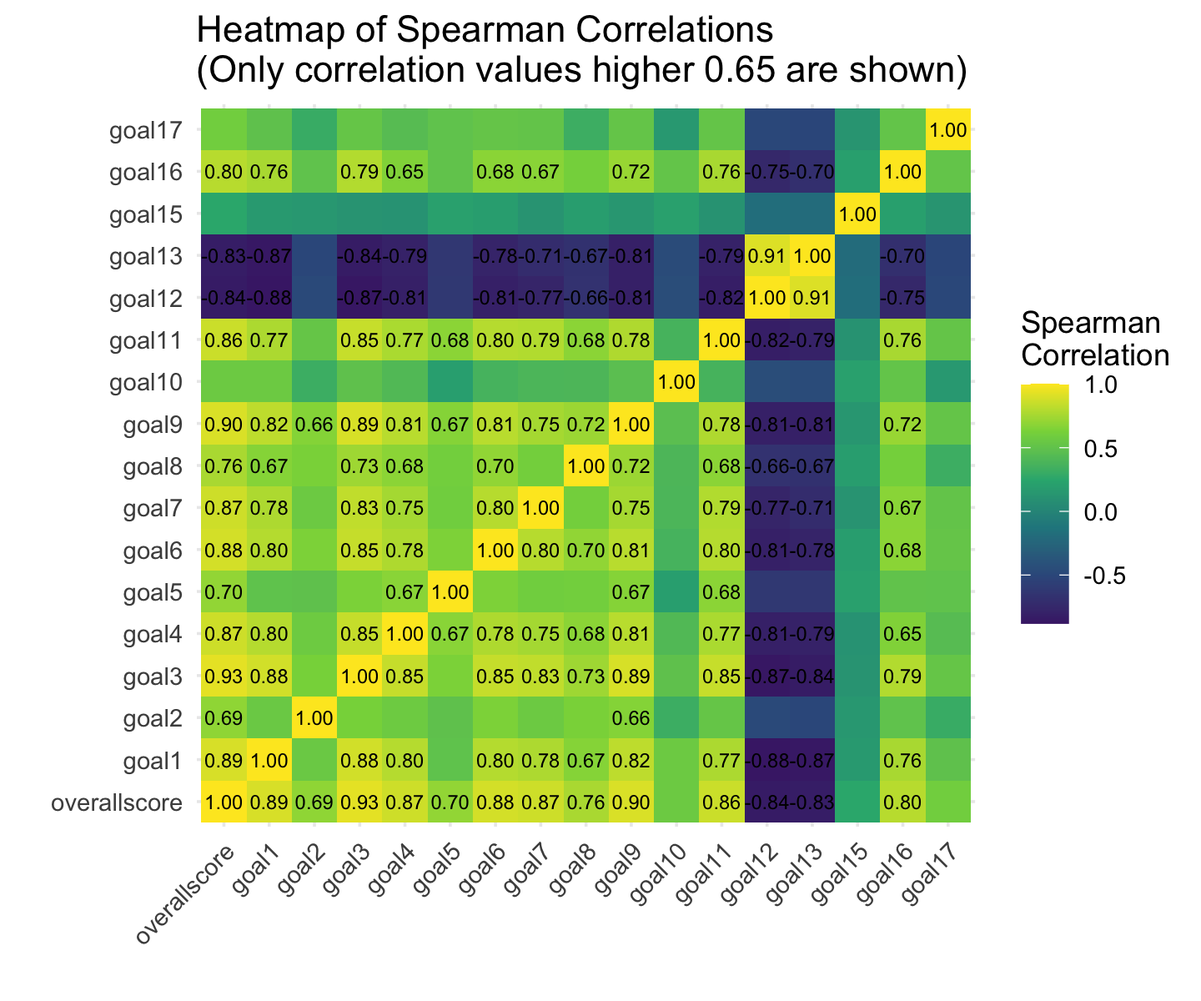
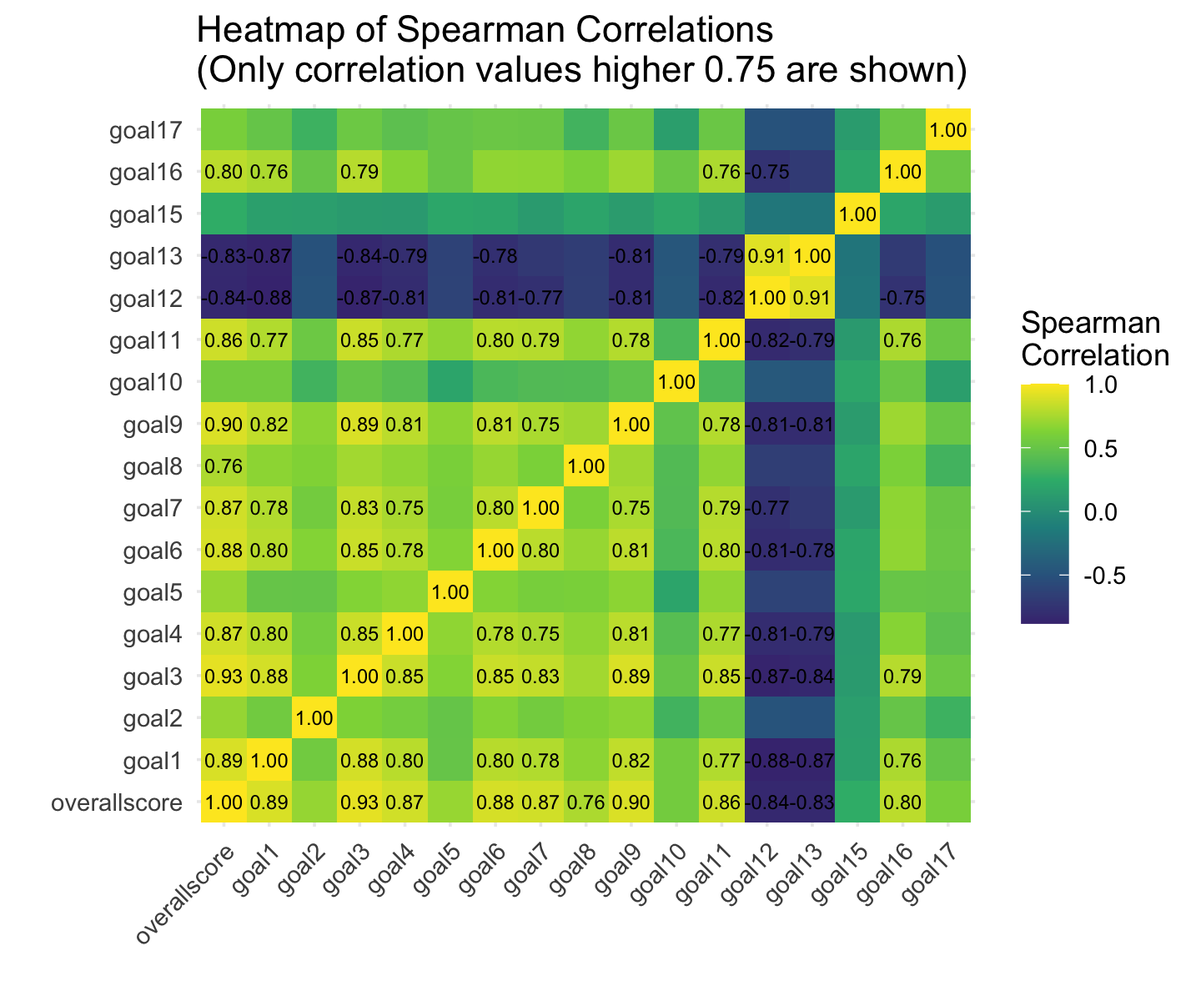
Q4 terminée (prête à la relecture finale)

diff --git a/report/question1.html b/report/question1.html
@@ -552,7 +552,7 @@ pre > code.sourceCode > span > a:first-child::before { text-decoration: underlin
 <section id="analysis-influence-of-the-factors-over-the-sdg" class="level3">
 <h3 class="anchored" data-anchor-id="analysis-influence-of-the-factors-over-the-sdg">Analysis: Influence of the factors over the SDG</h3>
 <p>In order to answer the first question of our work, let’s start by zooming on the correlation matrix heatmap made in our EDA part. Here are the correlations between the SDG and all the other variables except the SDG.</p>
-<div class="cell" data-layout-align="center" data-hash="question1_cache/html/unnamed-chunk-7_982fed00931b7327f23cb1d4cfad81a0">
+<div class="cell" data-layout-align="center" data-hash="question1_cache/html/unnamed-chunk-7_b633495acc107af032b9029f0c6ec2cc">
 <div class="sourceCode cell-code" id="cb7"><pre class="sourceCode r code-with-copy"><code class="sourceCode r"><span id="cb7-1"><a href="#cb7-1" aria-hidden="true" tabindex="-1"></a></span>
 <span id="cb7-2"><a href="#cb7-2" aria-hidden="true" tabindex="-1"></a><span class="do">### Correlation Matrix Heatmap SDG/Other variables </span><span class="al">###</span></span>
 <span id="cb7-3"><a href="#cb7-3" aria-hidden="true" tabindex="-1"></a></span>
@@ -566,13 +566,13 @@ pre > code.sourceCode > span > a:first-child::before { text-decoration: underlin
 <span id="cb7-11"><a href="#cb7-11" aria-hidden="true" tabindex="-1"></a>  }</span>
 <span id="cb7-12"><a href="#cb7-12" aria-hidden="true" tabindex="-1"></a>}</span>
 <span id="cb7-13"><a href="#cb7-13" aria-hidden="true" tabindex="-1"></a></span>
-<span id="cb7-14"><a href="#cb7-14" aria-hidden="true" tabindex="-1"></a>corr_matrix[<span class="fu">which</span>(p_matrix2 <span class="sc">&gt;</span> <span class="fl">0.05</span>)] <span class="ot">&lt;-</span> <span class="cn">NA</span> <span class="co">#only keeping significant pval alpha = 0.05</span></span>
+<span id="cb7-14"><a href="#cb7-14" aria-hidden="true" tabindex="-1"></a>corr_matrix[<span class="fu">which</span>(p_matrix2 <span class="sc">&gt;</span> p_value_threshold)] <span class="ot">&lt;-</span> <span class="cn">NA</span> <span class="co">#only keeping significant pval alpha = 0.05</span></span>
 <span id="cb7-15"><a href="#cb7-15" aria-hidden="true" tabindex="-1"></a></span>
 <span id="cb7-16"><a href="#cb7-16" aria-hidden="true" tabindex="-1"></a>melted_corr_matrix_GVar <span class="ot">&lt;-</span> <span class="fu">melt</span>(corr_matrix[<span class="dv">19</span><span class="sc">:</span><span class="dv">34</span>,<span class="dv">1</span><span class="sc">:</span><span class="dv">18</span>])</span>
 <span id="cb7-17"><a href="#cb7-17" aria-hidden="true" tabindex="-1"></a></span>
 <span id="cb7-18"><a href="#cb7-18" aria-hidden="true" tabindex="-1"></a><span class="fu">ggplot</span>(melted_corr_matrix_GVar, <span class="fu">aes</span>(Var1, Var2, <span class="at">fill =</span> value)) <span class="sc">+</span></span>
 <span id="cb7-19"><a href="#cb7-19" aria-hidden="true" tabindex="-1"></a>  <span class="fu">geom_tile</span>() <span class="sc">+</span></span>
-<span id="cb7-20"><a href="#cb7-20" aria-hidden="true" tabindex="-1"></a>  <span class="fu">geom_text</span>(<span class="fu">aes</span>(<span class="at">label =</span> <span class="fu">ifelse</span>(<span class="sc">!</span><span class="fu">is.na</span>(value) <span class="sc">&amp;</span> <span class="fu">abs</span>(value) <span class="sc">&gt;</span> <span class="fl">0.75</span>, <span class="fu">sprintf</span>(<span class="st">"%.2f"</span>, value), <span class="st">''</span>)),</span>
+<span id="cb7-20"><a href="#cb7-20" aria-hidden="true" tabindex="-1"></a>  <span class="fu">geom_text</span>(<span class="fu">aes</span>(<span class="at">label =</span> <span class="fu">ifelse</span>(<span class="sc">!</span><span class="fu">is.na</span>(value) <span class="sc">&amp;</span> <span class="fu">abs</span>(value) <span class="sc">&gt;</span> threshold_heatmap, <span class="fu">sprintf</span>(<span class="st">"%.2f"</span>, value), <span class="st">''</span>)),</span>
 <span id="cb7-21"><a href="#cb7-21" aria-hidden="true" tabindex="-1"></a>            <span class="at">color =</span> <span class="st">"black"</span>, <span class="at">size =</span> <span class="dv">2</span>) <span class="sc">+</span></span>
 <span id="cb7-22"><a href="#cb7-22" aria-hidden="true" tabindex="-1"></a>  <span class="fu">scale_fill_viridis_c</span>(<span class="at">name =</span> <span class="st">"Spearman</span><span class="sc">\n</span><span class="st">Correlation"</span>,</span>
 <span id="cb7-23"><a href="#cb7-23" aria-hidden="true" tabindex="-1"></a>                       <span class="at">na.value =</span> <span class="st">"white"</span>,</span>
@@ -599,11 +599,11 @@ pre > code.sourceCode > span > a:first-child::before { text-decoration: underlin
 <p>As we can see, our goals 12 &amp; 13 (responsible consumption &amp; production and climate action) are negatively correlated with most of our variables, as is the economic freedom government variable to our SDG. Nevertheless, goals 12 &amp; 13 and ef_government are positively correlated together.</p>
 <!-- ((In that sens, we could understand it as having a higher Human Freedom Index Score would influence more negatively the SDG scores of these two goals, i.e. the more people in a country can access and afford civil justice, the more it impact negatively the score of these two SDG.)) but correlation doesn't implie causality -->
 <p>Now let’s zoom on the correlations between all our variables except the SDG:</p>
-<div class="cell" data-layout-align="center" data-hash="question1_cache/html/unnamed-chunk-8_853e9f3cd2fdab79e28412568af4079f">
+<div class="cell" data-layout-align="center" data-hash="question1_cache/html/unnamed-chunk-8_bb19b79e3ffb3ecb2d821b20481a2200">
 <div class="sourceCode cell-code" id="cb8"><pre class="sourceCode r code-with-copy"><code class="sourceCode r"><span id="cb8-1"><a href="#cb8-1" aria-hidden="true" tabindex="-1"></a>melted_corr_matrix_Var <span class="ot">&lt;-</span> <span class="fu">melt</span>(corr_matrix[<span class="dv">19</span><span class="sc">:</span><span class="dv">34</span>,<span class="dv">19</span><span class="sc">:</span><span class="dv">34</span>])</span>
 <span id="cb8-2"><a href="#cb8-2" aria-hidden="true" tabindex="-1"></a><span class="fu">ggplot</span>(melted_corr_matrix_Var, <span class="fu">aes</span>(Var1, Var2, <span class="at">fill =</span> value)) <span class="sc">+</span></span>
 <span id="cb8-3"><a href="#cb8-3" aria-hidden="true" tabindex="-1"></a>  <span class="fu">geom_tile</span>() <span class="sc">+</span></span>
-<span id="cb8-4"><a href="#cb8-4" aria-hidden="true" tabindex="-1"></a>  <span class="fu">geom_text</span>(<span class="fu">aes</span>(<span class="at">label =</span> <span class="fu">ifelse</span>(<span class="sc">!</span><span class="fu">is.na</span>(value) <span class="sc">&amp;</span> <span class="fu">abs</span>(value) <span class="sc">&gt;</span> <span class="fl">0.75</span>, <span class="fu">sprintf</span>(<span class="st">"%.2f"</span>, value), <span class="st">''</span>)),</span>
+<span id="cb8-4"><a href="#cb8-4" aria-hidden="true" tabindex="-1"></a>  <span class="fu">geom_text</span>(<span class="fu">aes</span>(<span class="at">label =</span> <span class="fu">ifelse</span>(<span class="sc">!</span><span class="fu">is.na</span>(value) <span class="sc">&amp;</span> <span class="fu">abs</span>(value) <span class="sc">&gt;</span> threshold_heatmap, <span class="fu">sprintf</span>(<span class="st">"%.2f"</span>, value), <span class="st">''</span>)),</span>
 <span id="cb8-5"><a href="#cb8-5" aria-hidden="true" tabindex="-1"></a>            <span class="at">color =</span> <span class="st">"black"</span>, <span class="at">size =</span> <span class="fl">1.7</span>) <span class="sc">+</span></span>
 <span id="cb8-6"><a href="#cb8-6" aria-hidden="true" tabindex="-1"></a>  <span class="fu">scale_fill_viridis_c</span>(<span class="at">name =</span> <span class="st">"Spearman</span><span class="sc">\n</span><span class="st">Correlation"</span>,</span>
 <span id="cb8-7"><a href="#cb8-7" aria-hidden="true" tabindex="-1"></a>                       <span class="at">na.value =</span> <span class="st">"white"</span>,</span>
@@ -955,27 +955,24 @@ Goal17\sim \beta_0 &amp;+ unemployment.rate*\beta_1 + MilitaryExpenditurePercent
 <span id="cb16-43"><a href="#cb16-43" aria-hidden="true" tabindex="-1"></a><span class="co"># Combine into a single dataframe</span></span>
 <span id="cb16-44"><a href="#cb16-44" aria-hidden="true" tabindex="-1"></a>df_tidy <span class="ot">&lt;-</span> <span class="fu">do.call</span>(rbind, <span class="fu">lapply</span>(<span class="fu">names</span>(models_tidy), <span class="cf">function</span>(x) <span class="fu">cbind</span>(models_tidy[[x]], <span class="at">Model=</span>x)))</span>
 <span id="cb16-45"><a href="#cb16-45" aria-hidden="true" tabindex="-1"></a></span>
-<span id="cb16-46"><a href="#cb16-46" aria-hidden="true" tabindex="-1"></a><span class="co"># Assuming 'p.value' is the column name for p-values in your dataframe</span></span>
-<span id="cb16-47"><a href="#cb16-47" aria-hidden="true" tabindex="-1"></a>significance_level <span class="ot">&lt;-</span> <span class="fl">0.05</span></span>
-<span id="cb16-48"><a href="#cb16-48" aria-hidden="true" tabindex="-1"></a></span>
-<span id="cb16-49"><a href="#cb16-49" aria-hidden="true" tabindex="-1"></a><span class="co"># Filter for significant p-values</span></span>
-<span id="cb16-50"><a href="#cb16-50" aria-hidden="true" tabindex="-1"></a>df_tidy_significant <span class="ot">&lt;-</span> df_tidy[df_tidy<span class="sc">$</span>p.value <span class="sc">&lt;</span> significance_level, ]</span>
-<span id="cb16-51"><a href="#cb16-51" aria-hidden="true" tabindex="-1"></a><span class="fu">library</span>(RColorBrewer)</span>
-<span id="cb16-52"><a href="#cb16-52" aria-hidden="true" tabindex="-1"></a></span>
-<span id="cb16-53"><a href="#cb16-53" aria-hidden="true" tabindex="-1"></a>myColors <span class="ot">&lt;-</span> <span class="fu">colorRampPalette</span>(<span class="fu">brewer.pal</span>(<span class="dv">11</span>, <span class="st">"Spectral"</span>))(<span class="fu">length</span>(<span class="fu">unique</span>(df_tidy_significant<span class="sc">$</span>term)))</span>
-<span id="cb16-54"><a href="#cb16-54" aria-hidden="true" tabindex="-1"></a><span class="co"># Plot</span></span>
-<span id="cb16-55"><a href="#cb16-55" aria-hidden="true" tabindex="-1"></a><span class="fu">ggplot</span>(df_tidy_significant, <span class="fu">aes</span>(<span class="at">x =</span> Model, <span class="at">y =</span> estimate, <span class="at">color =</span> term)) <span class="sc">+</span></span>
-<span id="cb16-56"><a href="#cb16-56" aria-hidden="true" tabindex="-1"></a>  <span class="fu">geom_point</span>() <span class="sc">+</span></span>
-<span id="cb16-57"><a href="#cb16-57" aria-hidden="true" tabindex="-1"></a>  <span class="fu">geom_errorbar</span>(<span class="fu">aes</span>(<span class="at">ymin =</span> estimate <span class="sc">-</span> std.error, <span class="at">ymax =</span> estimate <span class="sc">+</span> std.error), <span class="at">width =</span> <span class="fl">0.2</span>) <span class="sc">+</span></span>
-<span id="cb16-58"><a href="#cb16-58" aria-hidden="true" tabindex="-1"></a>  <span class="fu">scale_color_manual</span>(<span class="at">values =</span> myColors) <span class="sc">+</span> </span>
-<span id="cb16-59"><a href="#cb16-59" aria-hidden="true" tabindex="-1"></a>  <span class="fu">theme</span>(<span class="at">axis.text.x =</span> <span class="fu">element_text</span>(<span class="at">angle =</span> <span class="dv">45</span>, <span class="at">hjust =</span> <span class="dv">1</span>),</span>
-<span id="cb16-60"><a href="#cb16-60" aria-hidden="true" tabindex="-1"></a>        <span class="at">plot.title =</span> <span class="fu">element_text</span>(<span class="at">hjust =</span> <span class="fl">0.5</span>), <span class="co"># Center the title</span></span>
-<span id="cb16-61"><a href="#cb16-61" aria-hidden="true" tabindex="-1"></a>        <span class="at">plot.title.position =</span> <span class="st">"plot"</span>,</span>
-<span id="cb16-62"><a href="#cb16-62" aria-hidden="true" tabindex="-1"></a>        <span class="at">legend.position =</span> <span class="st">"right"</span>, <span class="co"># You can change the position if needed</span></span>
-<span id="cb16-63"><a href="#cb16-63" aria-hidden="true" tabindex="-1"></a>        <span class="at">legend.text =</span> <span class="fu">element_text</span>(<span class="at">size =</span> <span class="dv">6</span>), <span class="co"># Adjust text size</span></span>
-<span id="cb16-64"><a href="#cb16-64" aria-hidden="true" tabindex="-1"></a>        <span class="at">legend.title =</span> <span class="fu">element_text</span>(<span class="at">size =</span> <span class="dv">7</span>), <span class="co"># Adjust title size</span></span>
-<span id="cb16-65"><a href="#cb16-65" aria-hidden="true" tabindex="-1"></a>        <span class="at">legend.key.size =</span> <span class="fu">unit</span>(<span class="fl">0.4</span>, <span class="st">"cm"</span>)) <span class="sc">+</span>  <span class="co"># Adjust key size) +</span></span>
-<span id="cb16-66"><a href="#cb16-66" aria-hidden="true" tabindex="-1"></a>  <span class="fu">labs</span>(<span class="at">title =</span> <span class="st">"Coefficient Plot of Regression Models"</span>, <span class="at">x =</span> <span class="st">"Models"</span>, <span class="at">y =</span> <span class="st">"Estimates"</span>)</span></code><button title="Copy to Clipboard" class="code-copy-button"><i class="bi"></i></button></pre></div>
+<span id="cb16-46"><a href="#cb16-46" aria-hidden="true" tabindex="-1"></a><span class="co"># Filter for significant p-values</span></span>
+<span id="cb16-47"><a href="#cb16-47" aria-hidden="true" tabindex="-1"></a>df_tidy_significant <span class="ot">&lt;-</span> df_tidy[df_tidy<span class="sc">$</span>p.value <span class="sc">&lt;</span> p_value_threshold, ]</span>
+<span id="cb16-48"><a href="#cb16-48" aria-hidden="true" tabindex="-1"></a><span class="fu">library</span>(RColorBrewer)</span>
+<span id="cb16-49"><a href="#cb16-49" aria-hidden="true" tabindex="-1"></a></span>
+<span id="cb16-50"><a href="#cb16-50" aria-hidden="true" tabindex="-1"></a>myColors <span class="ot">&lt;-</span> <span class="fu">colorRampPalette</span>(<span class="fu">brewer.pal</span>(<span class="dv">11</span>, <span class="st">"Spectral"</span>))(<span class="fu">length</span>(<span class="fu">unique</span>(df_tidy_significant<span class="sc">$</span>term)))</span>
+<span id="cb16-51"><a href="#cb16-51" aria-hidden="true" tabindex="-1"></a><span class="co"># Plot</span></span>
+<span id="cb16-52"><a href="#cb16-52" aria-hidden="true" tabindex="-1"></a><span class="fu">ggplot</span>(df_tidy_significant, <span class="fu">aes</span>(<span class="at">x =</span> Model, <span class="at">y =</span> estimate, <span class="at">color =</span> term)) <span class="sc">+</span></span>
+<span id="cb16-53"><a href="#cb16-53" aria-hidden="true" tabindex="-1"></a>  <span class="fu">geom_point</span>() <span class="sc">+</span></span>
+<span id="cb16-54"><a href="#cb16-54" aria-hidden="true" tabindex="-1"></a>  <span class="fu">geom_errorbar</span>(<span class="fu">aes</span>(<span class="at">ymin =</span> estimate <span class="sc">-</span> std.error, <span class="at">ymax =</span> estimate <span class="sc">+</span> std.error), <span class="at">width =</span> <span class="fl">0.2</span>) <span class="sc">+</span></span>
+<span id="cb16-55"><a href="#cb16-55" aria-hidden="true" tabindex="-1"></a>  <span class="fu">scale_color_manual</span>(<span class="at">values =</span> myColors) <span class="sc">+</span> </span>
+<span id="cb16-56"><a href="#cb16-56" aria-hidden="true" tabindex="-1"></a>  <span class="fu">theme</span>(<span class="at">axis.text.x =</span> <span class="fu">element_text</span>(<span class="at">angle =</span> <span class="dv">45</span>, <span class="at">hjust =</span> <span class="dv">1</span>),</span>
+<span id="cb16-57"><a href="#cb16-57" aria-hidden="true" tabindex="-1"></a>        <span class="at">plot.title =</span> <span class="fu">element_text</span>(<span class="at">hjust =</span> <span class="fl">0.5</span>), <span class="co"># Center the title</span></span>
+<span id="cb16-58"><a href="#cb16-58" aria-hidden="true" tabindex="-1"></a>        <span class="at">plot.title.position =</span> <span class="st">"plot"</span>,</span>
+<span id="cb16-59"><a href="#cb16-59" aria-hidden="true" tabindex="-1"></a>        <span class="at">legend.position =</span> <span class="st">"right"</span>, <span class="co"># You can change the position if needed</span></span>
+<span id="cb16-60"><a href="#cb16-60" aria-hidden="true" tabindex="-1"></a>        <span class="at">legend.text =</span> <span class="fu">element_text</span>(<span class="at">size =</span> <span class="dv">6</span>), <span class="co"># Adjust text size</span></span>
+<span id="cb16-61"><a href="#cb16-61" aria-hidden="true" tabindex="-1"></a>        <span class="at">legend.title =</span> <span class="fu">element_text</span>(<span class="at">size =</span> <span class="dv">7</span>), <span class="co"># Adjust title size</span></span>
+<span id="cb16-62"><a href="#cb16-62" aria-hidden="true" tabindex="-1"></a>        <span class="at">legend.key.size =</span> <span class="fu">unit</span>(<span class="fl">0.4</span>, <span class="st">"cm"</span>)) <span class="sc">+</span>  <span class="co"># Adjust key size) +</span></span>
+<span id="cb16-63"><a href="#cb16-63" aria-hidden="true" tabindex="-1"></a>  <span class="fu">labs</span>(<span class="at">title =</span> <span class="st">"Coefficient Plot of Regression Models"</span>, <span class="at">x =</span> <span class="st">"Models"</span>, <span class="at">y =</span> <span class="st">"Estimates"</span>)</span></code><button title="Copy to Clipboard" class="code-copy-button"><i class="bi"></i></button></pre></div>
 <div class="cell-output-display">
 <div class="quarto-figure quarto-figure-center">
 <figure class="figure">

diff --git a/report/question4.html b/report/question4.html
@@ -86,7 +86,7 @@ pre > code.sourceCode > span > a:first-child::before { text-decoration: underlin
 <p><strong>How are the different SDGs linked? (We want to see if some SDGs are linked in the fact that a high score on one implies a high score on the other, and thus if we can make groups of SDGs that are comparable in that way).</strong></p>
 <section id="eda-general-visualization-of-the-sdgs" class="level3">
 <h3 class="anchored" data-anchor-id="eda-general-visualization-of-the-sdgs">EDA: General visualization of the SDGs</h3>
-<p>To better analyse the relationships between the SDGs, we will first visualize the correlation between the correlation between the SDGs with the help of a heatmap. We chose to set a threshold at |0.65| to concentrate our analysis on the most linked SDGs. We initially intended to use the Pearson correlation method, but our data is, as seen in previous chapter, not normally ditributed. We tryed to normalized our data through logarithmic or square root transformation, but it was not sufficient. For that reason, we chose to use th Spearman correlation. While not being an ideal method, the Spearman correaltion does not require the data to be normally ditributed.</p>
+<p>To better analyse the relationships between the SDGs, we will first visualize the correlation between the correlation between the SDGs with the help of a heatmap. We chose to set a threshold at |0.75| to concentrate our analysis on the most linked SDGs. We initially intended to use the Pearson correlation method, but our data is, as seen in previous chapter, not normally ditributed. We tryed to normalized our data through logarithmic or square root transformation, but it was not sufficient. For that reason, we chose to use th Spearman correlation. While not being an ideal method, the Spearman correaltion does not require the data to be normally ditributed.</p>
 <p>To do that, we select only the colums of interest and compute the correlation matrix using Spearman correlation. We then melt the matrix to be able to plot it. We then plot the heatmap using <code>ggplot2</code>.</p>
 <div class="cell" data-layout-align="center">
 <div class="sourceCode cell-code" id="cb1"><pre class="sourceCode r code-with-copy"><code class="sourceCode r"><span id="cb1-1"><a href="#cb1-1" aria-hidden="true" tabindex="-1"></a><span class="do">#### Heatmap of the correlations ####</span></span>
@@ -129,7 +129,7 @@ pre > code.sourceCode > span > a:first-child::before { text-decoration: underlin
 <span id="cb1-38"><a href="#cb1-38" aria-hidden="true" tabindex="-1"></a>              <span class="at">vjust =</span> <span class="fl">0.5</span>,</span>
 <span id="cb1-39"><a href="#cb1-39" aria-hidden="true" tabindex="-1"></a>              <span class="at">size =</span> <span class="fl">2.5</span>) <span class="sc">+</span></span>
 <span id="cb1-40"><a href="#cb1-40" aria-hidden="true" tabindex="-1"></a>    <span class="fu">scale_fill_viridis_c</span>(<span class="at">name =</span> <span class="st">"Spearman</span><span class="sc">\n</span><span class="st">Correlation"</span>,</span>
-<span id="cb1-41"><a href="#cb1-41" aria-hidden="true" tabindex="-1"></a>                         <span class="at">begin =</span> <span class="fl">0.1</span>) <span class="sc">+</span></span>
+<span id="cb1-41"><a href="#cb1-41" aria-hidden="true" tabindex="-1"></a>                         <span class="at">begin =</span> <span class="fl">0.15</span>) <span class="sc">+</span></span>
 <span id="cb1-42"><a href="#cb1-42" aria-hidden="true" tabindex="-1"></a>    <span class="fu">theme_minimal</span>() <span class="sc">+</span></span>
 <span id="cb1-43"><a href="#cb1-43" aria-hidden="true" tabindex="-1"></a>    <span class="fu">theme</span>(<span class="at">axis.text.x =</span> <span class="fu">element_text</span>(<span class="at">angle =</span> <span class="dv">45</span>,</span>
 <span id="cb1-44"><a href="#cb1-44" aria-hidden="true" tabindex="-1"></a>                                     <span class="at">hjust =</span> <span class="dv">1</span>)) <span class="sc">+</span></span>
@@ -147,7 +147,7 @@ pre > code.sourceCode > span > a:first-child::before { text-decoration: underlin
 </div>
 </div>
 </div>
-<p>The correlation can be read on the graph. The darker the color, the stronger the correlation. If there is not colors, it means that the goals correlation does not exceed our threshold of ±0.65.</p>
+<p>The correlation can be read on the graph. The darker the color, the stronger the correlation. If the correlation value is not shown, it means that the goals correlation does not exceed our threshold of ±0.75.</p>
 <p>It is evident that the Sustainable Development Goals (SDGs) are intricately interconnected. However, certain goals seems to be less interrelated compared to others. We can see that SDG 1 (No Poverty) and SDG 10 (Reduced Inequalities) have a weaker correlation with the rest of the goals. Similarly, Goal 15 (Life on Land) also have a weacker interconnection with the other SDGs. It is also interesting to note that some goals are negatively correlated with others. For instance, based on the Spearman correlation, goal 12 (Responsable Consumption and Production) and goal 13 (Climate Action) are negatively correlated with the others goals. This suggest that when the higher a goal other than goal 12 or 13 is, the lower the goals 12 and 13 are. Given their similar nature, it is not surprising that they are highly correlated with each other.</p>
 </section>
 <section id="analysis-factor-analysis-and-stepwise-regression-applied-to-the-sdgs" class="level3">
@@ -177,15 +177,12 @@ pre > code.sourceCode > span > a:first-child::before { text-decoration: underlin
 <span id="cb2-21"><a href="#cb2-21" aria-hidden="true" tabindex="-1"></a>                             <span class="at">option =</span> <span class="st">"B"</span>,</span>
 <span id="cb2-22"><a href="#cb2-22" aria-hidden="true" tabindex="-1"></a>                             <span class="at">begin =</span> <span class="fl">0.5</span>),</span>
 <span id="cb2-23"><a href="#cb2-23" aria-hidden="true" tabindex="-1"></a>         <span class="at">barcolor =</span> <span class="st">"black"</span>,</span>
-<span id="cb2-24"><a href="#cb2-24" aria-hidden="true" tabindex="-1"></a>         <span class="at">barfill =</span> <span class="fu">viridis</span>(<span class="dv">10</span>,</span>
-<span id="cb2-25"><a href="#cb2-25" aria-hidden="true" tabindex="-1"></a>                           <span class="at">option =</span> <span class="st">"D"</span>,</span>
-<span id="cb2-26"><a href="#cb2-26" aria-hidden="true" tabindex="-1"></a>                           <span class="at">begin =</span> <span class="dv">0</span>,</span>
-<span id="cb2-27"><a href="#cb2-27" aria-hidden="true" tabindex="-1"></a>                           <span class="at">end =</span> <span class="fl">0.8</span>),) <span class="sc">+</span></span>
-<span id="cb2-28"><a href="#cb2-28" aria-hidden="true" tabindex="-1"></a>  <span class="fu">ggtitle</span>(<span class="st">"                                          PCA - Scree plot"</span>) <span class="sc">+</span></span>
-<span id="cb2-29"><a href="#cb2-29" aria-hidden="true" tabindex="-1"></a>  <span class="fu">theme_minimal</span>()</span>
-<span id="cb2-30"><a href="#cb2-30" aria-hidden="true" tabindex="-1"></a></span>
-<span id="cb2-31"><a href="#cb2-31" aria-hidden="true" tabindex="-1"></a><span class="co"># getting the eigenvalues</span></span>
-<span id="cb2-32"><a href="#cb2-32" aria-hidden="true" tabindex="-1"></a>eigenvalues <span class="ot">&lt;-</span> pca_result<span class="sc">$</span>sdev<span class="sc">^</span><span class="dv">2</span></span></code><button title="Copy to Clipboard" class="code-copy-button"><i class="bi"></i></button></pre></div>
+<span id="cb2-24"><a href="#cb2-24" aria-hidden="true" tabindex="-1"></a>         <span class="at">barfill =</span> Fix_color) <span class="sc">+</span></span>
+<span id="cb2-25"><a href="#cb2-25" aria-hidden="true" tabindex="-1"></a>  <span class="fu">ggtitle</span>(<span class="st">"                                          PCA - Scree plot"</span>) <span class="sc">+</span></span>
+<span id="cb2-26"><a href="#cb2-26" aria-hidden="true" tabindex="-1"></a>  <span class="fu">theme_minimal</span>()</span>
+<span id="cb2-27"><a href="#cb2-27" aria-hidden="true" tabindex="-1"></a></span>
+<span id="cb2-28"><a href="#cb2-28" aria-hidden="true" tabindex="-1"></a><span class="co"># getting the eigenvalues</span></span>
+<span id="cb2-29"><a href="#cb2-29" aria-hidden="true" tabindex="-1"></a>eigenvalues <span class="ot">&lt;-</span> pca_result<span class="sc">$</span>sdev<span class="sc">^</span><span class="dv">2</span></span></code><button title="Copy to Clipboard" class="code-copy-button"><i class="bi"></i></button></pre></div>
 <div class="cell-output-display">
 <div class="quarto-figure quarto-figure-center">
 <figure class="figure">
@@ -444,7 +441,8 @@ Overallscore\sim \beta_0 &amp;+ Goal~2*\beta_1 + Goal~3*\beta_2 + Goal~4*\beta_3
 <span id="cb7-21"><a href="#cb7-21" aria-hidden="true" tabindex="-1"></a>              <span class="at">color =</span> <span class="fu">viridis</span>(<span class="dv">1</span>,</span>
 <span id="cb7-22"><a href="#cb7-22" aria-hidden="true" tabindex="-1"></a>                             <span class="at">option =</span> <span class="st">"B"</span>,</span>
 <span id="cb7-23"><a href="#cb7-23" aria-hidden="true" tabindex="-1"></a>                             <span class="at">begin =</span> <span class="fl">0.5</span>)) <span class="sc">+</span></span>
-<span id="cb7-24"><a href="#cb7-24" aria-hidden="true" tabindex="-1"></a>  <span class="fu">theme_minimal</span>()</span></code><button title="Copy to Clipboard" class="code-copy-button"><i class="bi"></i></button></pre></div>
+<span id="cb7-24"><a href="#cb7-24" aria-hidden="true" tabindex="-1"></a>  <span class="fu">theme_minimal</span>() <span class="sc">+</span></span>
+<span id="cb7-25"><a href="#cb7-25" aria-hidden="true" tabindex="-1"></a>  <span class="fu">theme</span>(<span class="at">legend.position =</span> <span class="st">"none"</span>)</span></code><button title="Copy to Clipboard" class="code-copy-button"><i class="bi"></i></button></pre></div>
 <div class="cell-output-display">
 <div class="quarto-figure quarto-figure-center">
 <figure class="figure">
@@ -483,7 +481,8 @@ Goal~9\sim \beta_0 &amp;+ Goal~1*\beta_1 + Goal~2*\beta_2 + Goal~3*\beta_3 + Goa
 <span id="cb8-21"><a href="#cb8-21" aria-hidden="true" tabindex="-1"></a>              <span class="at">color =</span> <span class="fu">viridis</span>(<span class="dv">1</span>,</span>
 <span id="cb8-22"><a href="#cb8-22" aria-hidden="true" tabindex="-1"></a>                             <span class="at">option =</span> <span class="st">"B"</span>,</span>
 <span id="cb8-23"><a href="#cb8-23" aria-hidden="true" tabindex="-1"></a>                             <span class="at">begin =</span> <span class="fl">0.5</span>)) <span class="sc">+</span></span>
-<span id="cb8-24"><a href="#cb8-24" aria-hidden="true" tabindex="-1"></a>  <span class="fu">theme_minimal</span>()</span></code><button title="Copy to Clipboard" class="code-copy-button"><i class="bi"></i></button></pre></div>
+<span id="cb8-24"><a href="#cb8-24" aria-hidden="true" tabindex="-1"></a>  <span class="fu">theme_minimal</span>() <span class="sc">+</span></span>
+<span id="cb8-25"><a href="#cb8-25" aria-hidden="true" tabindex="-1"></a>  <span class="fu">theme</span>(<span class="at">legend.position =</span> <span class="st">"none"</span>)</span></code><button title="Copy to Clipboard" class="code-copy-button"><i class="bi"></i></button></pre></div>
 <div class="cell-output-display">
 <div class="quarto-figure quarto-figure-center">
 <figure class="figure">
